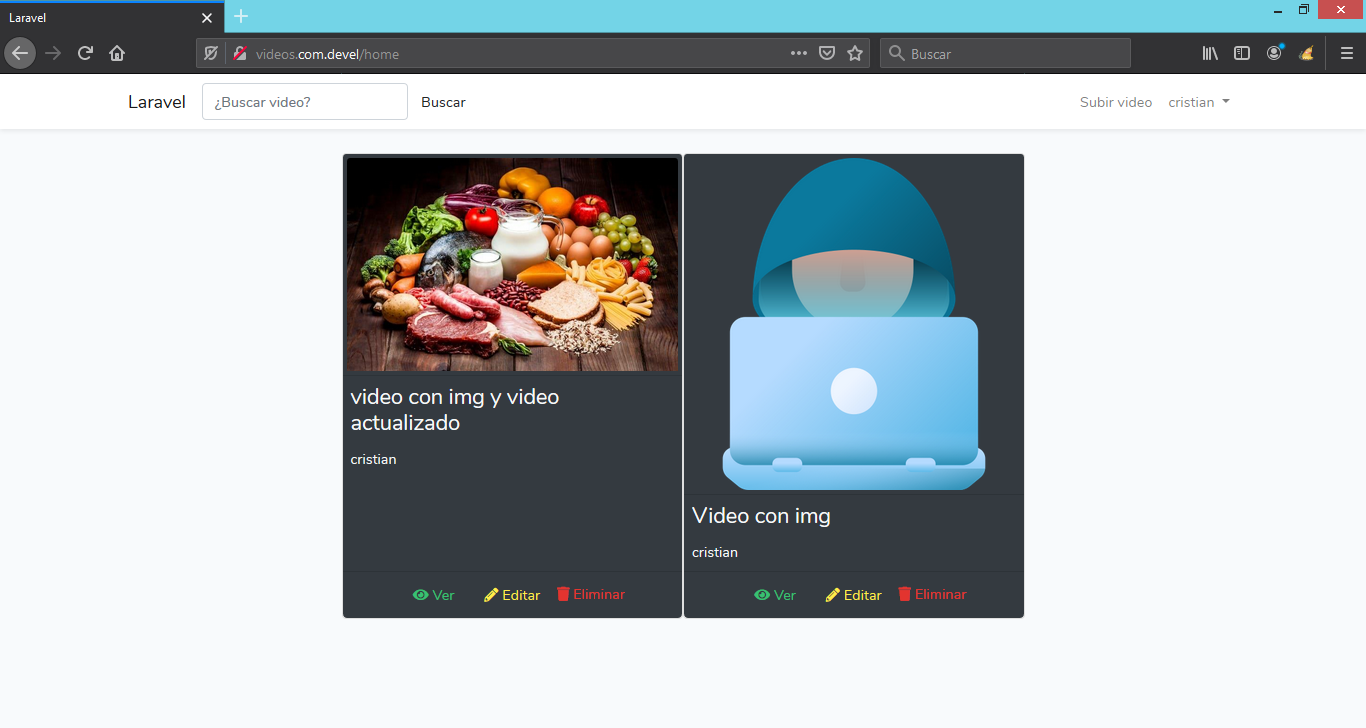
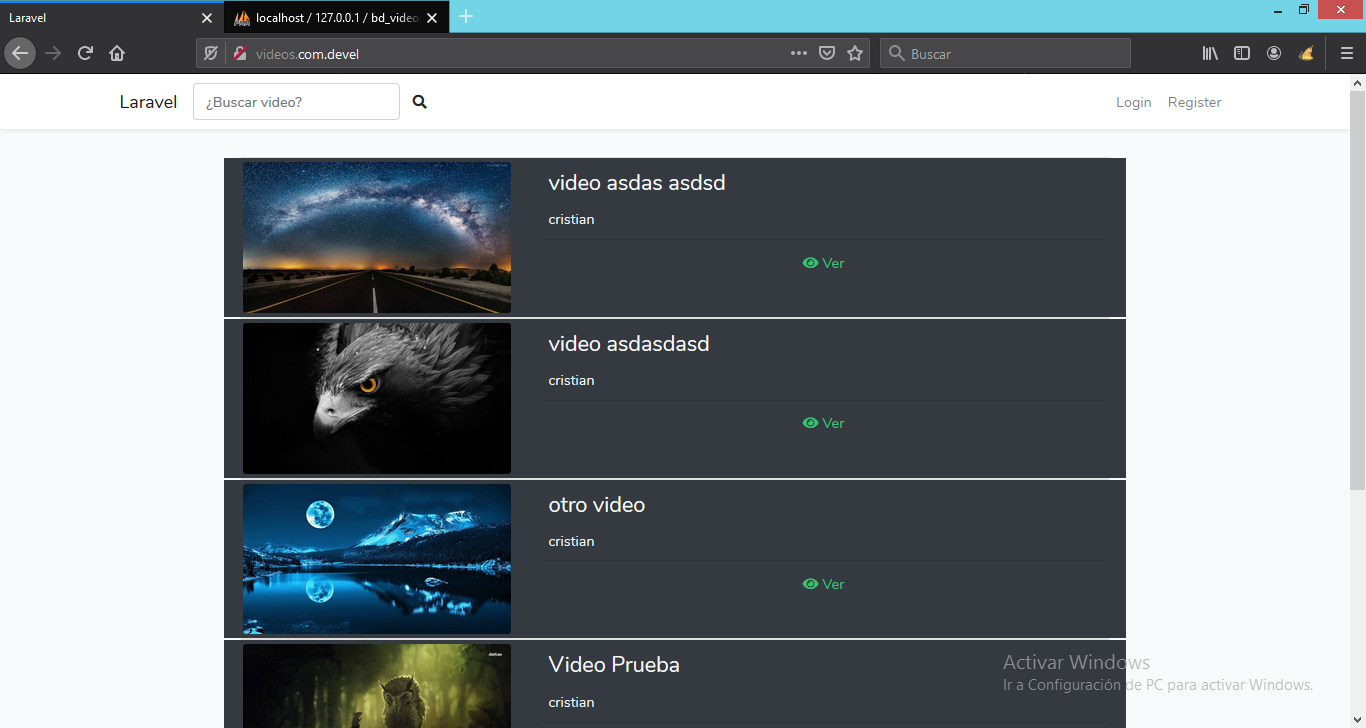
se agrega la funcionalidad de buscar y ordenar los videos, y se agrega el canal con la lista de videos subidos por un usuario

diff --git a/resources/views/video/videosList.blade.php b/resources/views/video/videosList.blade.php
@@ -1,0 +1,75 @@
+@if(count($videos) >=1 )
+
+<div id="" class="row justify-content-center m-1">
+
+    @foreach($videos as $video)
+       
+        <div id="" class="col-sm-12 col-md-8 p-0" style="">
+            <div class="card">
+                <div class="row p-1 bg-dark">
+                    <div class="col-md-4">
+                        @if(Storage::disk('images')->has($video->imagen_vid))
+                            <img src="{{ url('miniatura/'.$video->imagen_vid) }}"class="card-img h-100" alt="Imagen">
+                        @endif
+                    </div>
+                
+                    <div class="col-md-8">
+                        
+                        <div class="card-body p-2 bg-dark text-light">
+                            <h4 id="" class="card-title">
+                                <a href="{{ route('videoDetalle', [ 'video_id'=>$video->id ]) }}" class="text-light">{{ $video->titulo_vid}}</a>
+                            </h4>
+                            <p class="card-text"><a href="{{ route('canal',['usuario_id'=>$video->usuario->id]) }}" class="text-light">{{ $video->usuario->name}}</a></p>
+                        </div>
+                        <!-- boton de accion -->
+                        <div class="card-footer d-flex align-items-end  justify-content-center p-1 bg-dark rounded-bottom">
+                            <a href="{{ route('videoDetalle', [ 'video_id'=>$video->id ]) }}" class="btn text-success">
+                                <i class="fas fa-eye"></i> Ver
+                            </a>
+                            @if(Auth::check() && Auth::user()->id === $video->usuario->id)
+                                <a href="{{ route('editarVideo', ['video_id'=>$video->id] ) }}" class="btn text-warning">
+                                    <i class="fas fa-pencil-alt"></i> Editar
+                                </a>
+        
+                                <!-- Button trigger modal eliminar -->
+                                <a role="button" class="btn text-danger" data-toggle="modal" data-target="#exampleModal{{$video->id}}">
+                                    <i class="fas fa-trash"></i> Eliminar
+                                </a>
+        
+                                <!-- Modal eliminar -->
+                                <div class="modal fade" id="exampleModal{{$video->id}}" tabindex="-1" role="dialog" aria-labelledby="exampleModalLabel" aria-hidden="true">
+                                    <div class="modal-dialog">
+                                        <div class="modal-content">
+                                        <div class="modal-header">
+                                            <h5 class="modal-title" id="exampleModalLabel">Eliminar Video</h5>
+                                            <button type="button" class="close" data-dismiss="modal" aria-label="Close">
+                                            <span aria-hidden="true">&times;</span>
+                                            </button>
+                                        </div>
+                                        <div class="modal-body">
+                                            {{$video->titulo_vid}}
+                                        </div>
+                                        <div class="modal-footer">
+                                            <button type="button" class="btn btn-secondary" data-dismiss="modal">Cancelar</button>
+                                            <a href="{{ route('borrarVideo',['video_id'=>$video->id]) }}" role="button" class="btn btn-danger">Eliminar</a>
+                                        </div>
+                                        </div>
+                                    </div>
+                                </div>
+        
+                            @endif
+                        </div>
+                        
+                    </div>
+                </div>
+            </div>
+        </div>                
+
+    @endforeach
+</div>
+@else
+<div class="alert alert-info">
+    No hay videos actualmente!!
+</div>
+@endif
+{{ $videos->links() }}

diff --git a/resources/views/home.blade.php b/resources/views/home.blade.php
@@ -8,67 +8,8 @@
             {{ session('respuesta') }}
         </div>
     @endif
-    <div id="" class="row justify-content-center">
-        
-        @foreach($videos as $video)
-            
-            <div id="" class="col-6 col-sm-3 p-0" style="min-width: 150px; max-width: 350px;">
-                <div class="card h-100">
-                    <div class="card-header p-1 bg-dark">
-                        @if(Storage::disk('images')->has($video->imagen_vid))
-                            <img src="{{ url('miniatura/'.$video->imagen_vid) }}"class="card-img-top" alt="Imagen">
-                        @endif
-                    </div>
-                    <div class="card-body p-2 bg-dark text-light">
-                        <h4 id="" class="card-title">
-                            <a href="{{ route('videoDetalle', [ 'video_id'=>$video->id ]) }}" class="text-light">{{ $video->titulo_vid}}</a>
-                        </h4>
-                        <p class="card-text">{{ $video->usuario->name}}</p>
-                    </div>
-                    <!-- boton de accion -->
-                    <div class="card-footer p-1 bg-dark text-center rounded-bottom">
-                        <a href="{{ route('videoDetalle', [ 'video_id'=>$video->id ]) }}" class="btn text-success">
-                            <i class="fas fa-eye"></i> Ver
-                        </a>
-                        @if(Auth::check() && Auth::user()->id === $video->usuario->id)
-                            <a href="{{ route('editarVideo', ['video_id'=>$video->id] ) }}" class="btn text-warning">
-                                <i class="fas fa-pencil-alt"></i> Editar
-                            </a>
-
-                            <!-- Button trigger modal eliminar -->
-                            <a role="button" class="btn- text-danger" data-toggle="modal" data-target="#exampleModal{{$video->id}}">
-                                <i class="fas fa-trash"></i> Eliminar
-                            </a>
-
-                            <!-- Modal eliminar -->
-                            <div class="modal fade" id="exampleModal{{$video->id}}" tabindex="-1" role="dialog" aria-labelledby="exampleModalLabel" aria-hidden="true">
-                                <div class="modal-dialog">
-                                    <div class="modal-content">
-                                    <div class="modal-header">
-                                        <h5 class="modal-title" id="exampleModalLabel">Eliminar Video</h5>
-                                        <button type="button" class="close" data-dismiss="modal" aria-label="Close">
-                                        <span aria-hidden="true">&times;</span>
-                                        </button>
-                                    </div>
-                                    <div class="modal-body">
-                                        {{$video->titulo_vid}}
-                                    </div>
-                                    <div class="modal-footer">
-                                        <button type="button" class="btn btn-secondary" data-dismiss="modal">Cancelar</button>
-                                        <a href="{{ route('borrarVideo',['video_id'=>$video->id]) }}" role="button" class="btn btn-danger">Eliminar</a>
-                                    </div>
-                                    </div>
-                                </div>
-                            </div>
-
-                        @endif
-                    </div>
-                </div>
-            </div>                
-
-        @endforeach
-    </div>
-    {{ $videos->links() }}
+    <!-- Lista de videos -->
+    @include('video.videosList')
 
 </div>
 @endsection

diff --git a/resources/views/layouts/app.blade.php b/resources/views/layouts/app.blade.php
@@ -7,7 +7,7 @@
     <!-- CSRF Token -->
     <meta name="csrf-token" content="{{ csrf_token() }}">
 
-    <title>{{ config('app.name', 'Laravel') }}</title>
+    <title>{{ config('app.name', 'Videos') }}</title>
 
     <!-- Scripts -->
     <script src="{{ asset('js/app.js') }}" defer></script>
@@ -27,7 +27,7 @@
         <nav class="navbar navbar-expand-md navbar-light bg-white shadow-sm">
             <div class="container">
                 <a class="navbar-brand" href="{{ url('/') }}">
-                    {{ config('app.name', 'Laravel') }}
+                    {{ config('app.name', 'Videos') }}
                 </a>
                 <button class="navbar-toggler" type="button" data-toggle="collapse" data-target="#navbarSupportedContent" aria-controls="navbarSupportedContent" aria-expanded="false" aria-label="{{ __('Toggle navigation') }}">
                     <span class="navbar-toggler-icon"></span>
@@ -37,10 +37,12 @@
                     <!-- Left Side Of Navbar -->
                     <ul class="navbar-nav mr-auto">
                         <li class="nav-item">
-                            <form class="navbar-form navbar-left d-flex align-items-center" role="search">
-                                <input type="text" class="form-control" placeholder="¿Buscar video?">
+                            <form class="navbar-form navbar-left d-flex align-items-center" action="{{ route('buscarVideo') }}" role="search">
+                                <input type="text" class="form-control" name='search' placeholder="¿Buscar video?">
+                                
+                                <!-- Boton  buscar -->
                                 <button type="submit" class="btn btn-default">
-                                    <span class="search">Buscar</span>
+                                    <i class="fas fa-search"></i>
                                 </button>
                             </form>
                         </li>

diff --git a/routes/web.php b/routes/web.php
@@ -20,7 +20,7 @@ Route::get('/', function () {
 
 Auth::routes();
 
-Route::get('/home', 'HomeController@index')->name('home');
+Route::get('/', 'HomeController@index')->name('home');
 
 // Rutas del controlador Video
 Route::get('/crear-video', 'VideoController@crearVideo')
@@ -30,14 +30,11 @@ Route::post('/guardar-video', 'VideoController@guardarVideo')
     ->name('guardarVideo')
     ->middleware('auth');
 Route::get('/miniatura/{nombreArchivo}', 'VideoController@traerImagen')
-    ->name('imagenVideo')
-    ->middleware('auth');    
+    ->name('imagenVideo');    
 Route::get('/video-file/{nombreArchivo}', 'VideoController@traerVideo')
-    ->name('traerVideo')
-    ->middleware('auth');    
+    ->name('traerVideo');    
 Route::get('/video/{video_id}', 'VideoController@traerVideoDetalle')
-    ->name('videoDetalle')
-    ->middleware('auth');  
+    ->name('videoDetalle');  
 Route::get('/borrar-video/{video_id}', 'VideoController@borrarVideo')
     ->name('borrarVideo')
     ->middleware('auth');  
@@ -47,6 +44,8 @@ Route::get('/editar-video/{video_id}', 'VideoController@editarVideo')
 Route::post('/editar-video/{video_id}', 'VideoController@actualizarVideo')
     ->name('actualizarVideo')
     ->middleware('auth');    
+Route::get('/buscar/{video_id?}/{filtro?}', 'VideoController@buscarVideo')
+    ->name('buscarVideo');    
     
 // comentarios
 Route::post('/comentario', 'comentarioController@crearComentario')
@@ -55,4 +54,9 @@ Route::post('/comentario', 'comentarioController@crearComentario')
 Route::get('/borrar-comentario/{comentario_id}', 'comentarioController@borrarComentario')
         ->name('borrarComentario')
         ->middleware('auth');
+
+// usuarios
+Route::get('/canal/{usuario_id}', 'usuarioController@canal')
+    ->name('canal');
+
     

diff --git a/app/Http/Controllers/VideoController.php b/app/Http/Controllers/VideoController.php
@@ -146,4 +146,39 @@ class VideoController extends Controller
         return redirect()->route('home')->with(array('respuesta'=>'Video actualizado correctamente'));
     }
 
+    public function buscarVideo($buscar = null, $filtro = null){   
+        if (is_null($buscar)) {
+            $buscar = \Request::get('search');
+        }     
+        if (is_null($filtro) && \Request::get('filtro') && !is_null($buscar)) {
+            $filtro = \Request::get('filtro');
+        }     
+
+        $col="id";
+        $orden="desc";
+        if (!is_null($filtro)) {
+            if ($filtro === 'nuevos') {
+                $col="id";
+                $orden="desc";
+            }
+            if ($filtro === 'antiguos') {
+                $col="id";
+                $orden="asc";              
+            }
+            if ($filtro === 'alfabetico') {
+                $col="titulo_vid";
+                $orden="asc"; 
+            }
+        }
+
+        $videos = Video::where('titulo_vid','LIKE', '%'.$buscar.'%')
+            ->orderBy($col,$orden)
+            ->paginate(5);
+
+        return view('video.buscar',array(
+            'videos'=>$videos,
+            'buscar'=>$buscar
+        ));
+    }
+
 }

diff --git a/resources/views/video/buscar.blade.php b/resources/views/video/buscar.blade.php
@@ -1,0 +1,26 @@
+@extends('layouts.app')
+
+@section('content')
+    <div id="" class="row justify-content-center m-1">
+        <h2 class="col-sm-6">Resultado de la Busqueda: <b>{{$buscar}}</b> </h2>
+        <div class="col-12 col-sm-6">
+
+            <form action="{{ url('/buscar/'.$buscar) }}" method="get" class="row">
+                <div class="form-group col-sm-9 pr-1">
+                    <select name="filtro" class="custom-select">
+                        <option selected>Seleccione para ordenar</option>
+                        <option value="antiguos">Mas antiguos primero</option>
+                        <option value="nuevos">Mas nuevos primero</option>
+                        <option value="alfabetico">De la A a la Z</option>
+                    </select>
+                </div>
+                <div class="col-sm-3 p-0">
+                    <input type="submit" value="Ordenar" class="btn btn-success">
+                </div>
+            </form>
+
+        </div>
+    </div>
+    <!-- Lista de videos -->
+    @include('video.videosList')
+@endsection

diff --git a/app/Http/Controllers/UsuarioController.php b/app/Http/Controllers/UsuarioController.php
@@ -1,0 +1,28 @@
+<?php
+
+namespace App\Http\Controllers;
+
+use Illuminate\Http\Request;
+use Illuminate\Support\Facades\Storage;
+use Symfony\Component\HttpFoundation\Response;
+
+use App\User;
+use App\Video;
+use App\Comentario;
+
+class UsuarioController extends Controller
+{
+    public function canal($usuario_id){
+        $usuario = User::find($usuario_id);
+        if (!is_object($usuario)) {
+            return redirect()->route('home');
+        }
+
+        $videos = Video::where('fk_id_usu',$usuario_id)->paginate(5);
+
+        return view('usuario.canal', array(
+            'usuario'=>$usuario,
+            'videos'=>$videos
+        ));
+    }
+}

diff --git a/resources/views/video/detalle.blade.php b/resources/views/video/detalle.blade.php
@@ -13,7 +13,7 @@
         </video>
         <!-- decripcion -->
         <div class="card-body">
-            <h5 class="card-title">Subido por: {{$video->usuario->name}}</h5>
+            <h5 class="card-title">Subido por: <a href="{{ route('canal',['usuario_id'=>$video->usuario->id]) }}">{{$video->usuario->name}}</a></h5>
             <p class="card-text">{{$video->descripcion_vid}}</p>
             <p class="card-text"><small class="text-muted">{{$video->usuario->created_at}}</small></p>
         </div>

diff --git a/resources/views/usuario/canal.blade.php b/resources/views/usuario/canal.blade.php
@@ -1,0 +1,12 @@
+@extends('layouts.app')
+
+@section('content')
+    <div id="" class="row justify-content-center m-1">
+        <h2 class="col-sm-6">Canal de <b>{{$usuario->name}}</b> </h2>
+
+    </div>
+    <!-- Lista de videos -->
+    @include('video.videosList')
+
+
+@endsection 

diff --git a/app/Http/Controllers/HomeController.php b/app/Http/Controllers/HomeController.php
@@ -14,7 +14,7 @@ class HomeController extends Controller
      */
     public function __construct()
     {
-        $this->middleware('auth');
+        $this->middleware('web');
     }
 
     /**
